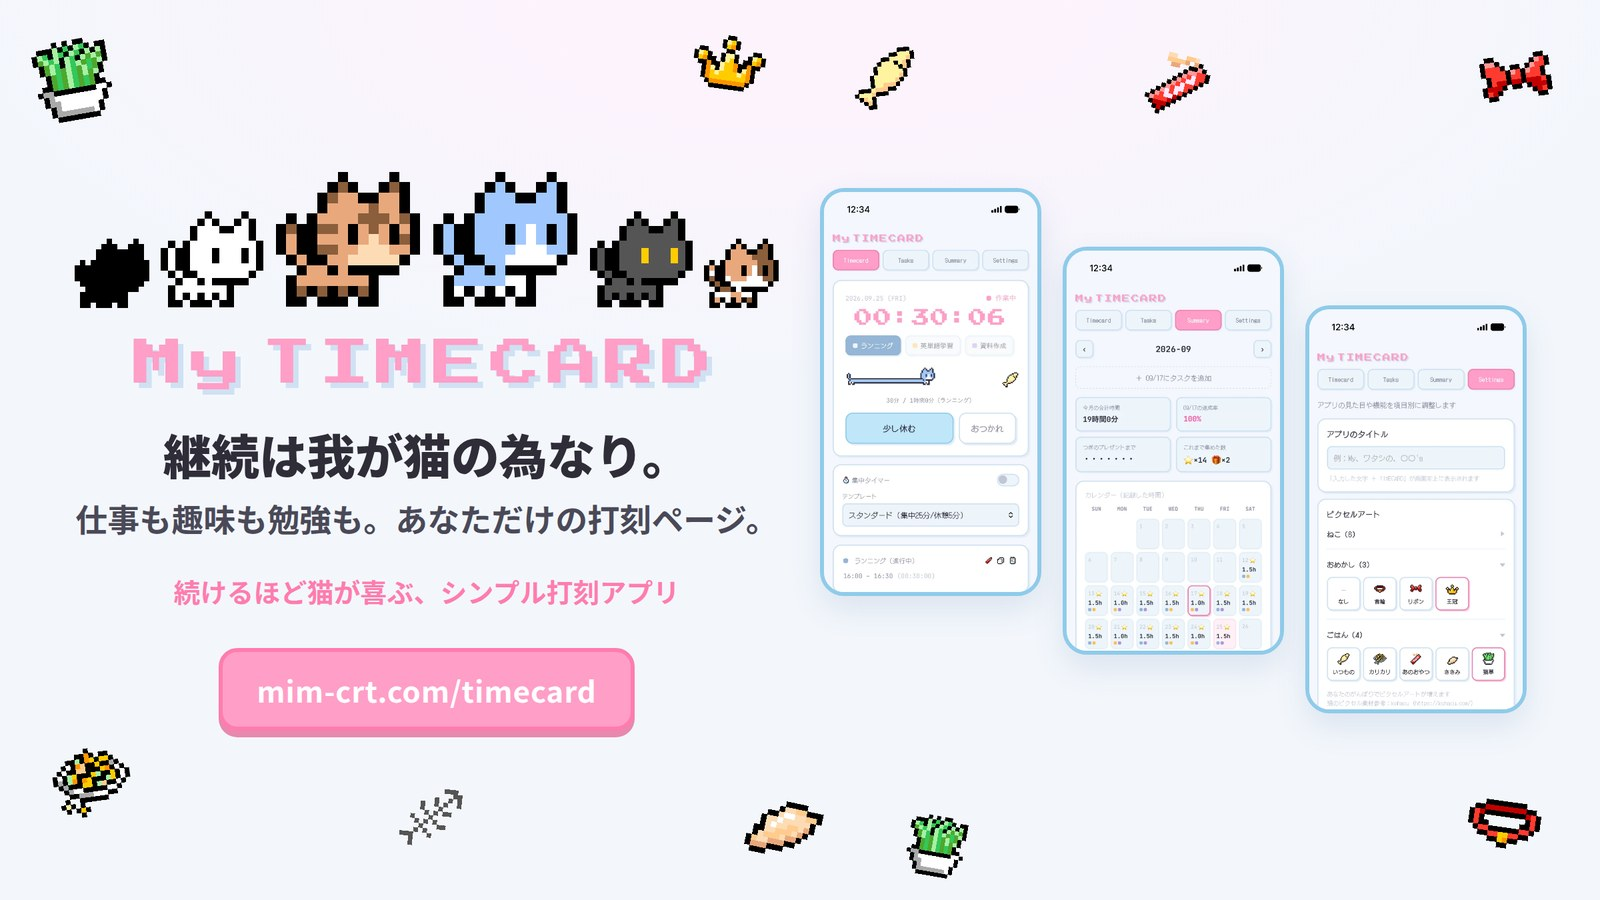
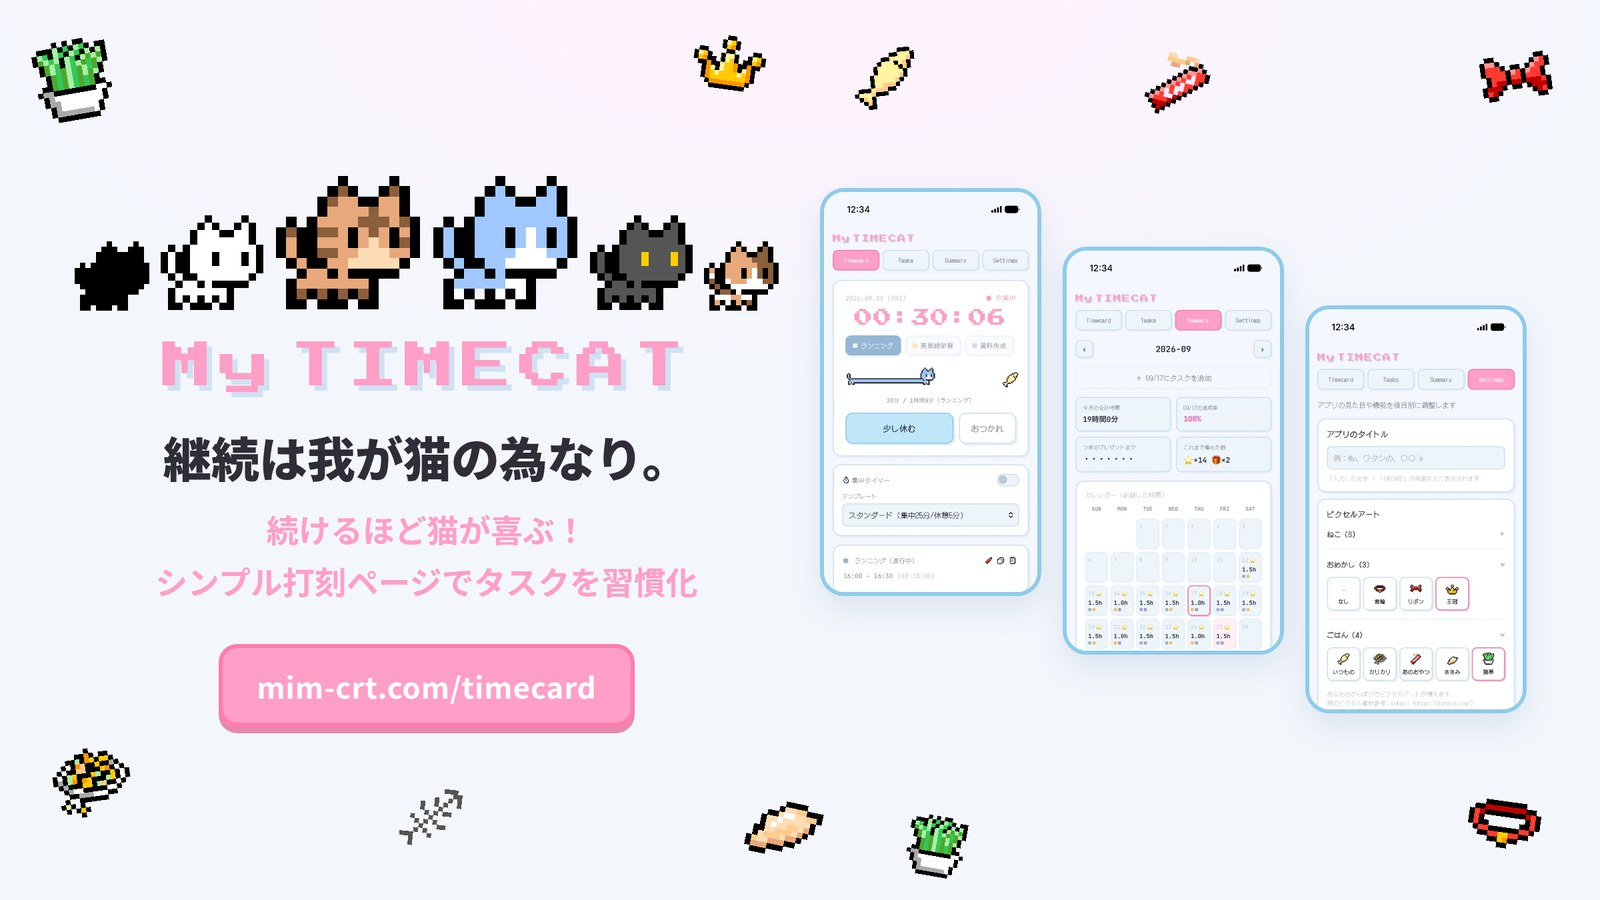
Diary: LP記事の表記をMy TIMECATに変更、告知画像を新ロゴ版に差し替え
Claude-Session: https://claude.ai/code/session_01VZhEBWrhsxb8yWvy551Fxq

Changed region(s): [[0.0312, 0.3733, 0.4688, 0.6844], [0.0625, 0.1867, 0.5, 0.3422], [0.125, 0.7156, 0.4062, 0.84]]

diff --git a/index.html b/index.html
@@ -1615,14 +1615,14 @@
           </summary>
           <div class="blog-body">
             <figure class="blog-media blog-media--wide">
-              <img src="diary/timecard-lp-wide.jpg" width="1600" height="900" loading="lazy" alt="My Timecard 告知画像。6匹のピクセルアートの猫と、Timecard・Summary・Settingsの3画面。キャッチコピー「継続は我が猫の為なり。」">
+              <img src="diary/timecard-lp-wide.jpg" width="1600" height="900" loading="lazy" alt="My TIMECAT 告知画像。6匹のピクセルアートの猫と、Timecard・Summary・Settingsの3画面。キャッチコピー「継続は我が猫の為なり。」">
             </figure>
-            <p>シリーズ第4回は、アプリの中身ではなくその外側の話です。MyTIMECATを紹介するページ（LP）を公開しました！</p>
+            <p>シリーズ第4回は、アプリの中身ではなくその外側の話です。My TIMECATを紹介するページ（LP）を公開しました！</p>
             <p>👉 <a href="https://mim-crt.com/timecard/">https://mim-crt.com/timecard/</a></p>
             <p>第1回〜第3回ではご褒美システム、ドット絵、外部サービスとの同期と、アプリの内側の話をしてきました。今回は「このアプリがどんなものか」を初めて見る人に伝えるためのページを作った、という報告です。</p>
 
             <h3>どんなアプリ？</h3>
-            <p>改めて紹介すると、MyTIMECATはブラウザで開くだけで使えるタスク記録アプリです。インストール不要で、PC・スマホ・タブレットのどれからでも記録できます。画像の3画面は左から Timecard・Summary・Settings です。</p>
+            <p>改めて紹介すると、My TIMECATはブラウザで開くだけで使えるタスク記録アプリです。インストール不要で、PC・スマホ・タブレットのどれからでも記録できます。画像の3画面は左から Timecard・Summary・Settings です。</p>
             <ul>
               <li><strong>Timecard</strong>：ワンタップで記録。自分の猫が一緒に歩いてくれます。集中タイマーつき</li>
               <li><strong>Tasks</strong>：タスクの作成・編集</li>
@@ -1639,9 +1639,6 @@
             <p>ログインしなくてもすぐに使えて、すべての機能が無料です。Googleアカウントかメールアドレスでログインすると、第3回で格闘した同期機能のおかげで、複数の端末で同じデータを使えるようになります。</p>
             <h3>まとめ</h3>
             <p>9月1日の「アプリ開発に手を出しました」から約1か月、自分用に作り始めたアプリが、ようやく人に紹介できる形になりました。「三日坊主になりがち」な方にこそ使ってもらえたらうれしいです。ご意見・ご要望もお気軽にどうぞ！</p>
-            <figure class="blog-media blog-media--tall">
-              <img src="diary/timecard-lp-tall.jpg" width="1080" height="1350" loading="lazy" alt="My Timecard 告知画像（縦長）。ピクセルアートの猫たちとアプリの3画面、URL mim-crt.com/timecard">
-            </figure>
             <p>▶ アプリをはじめる：<a href="https://timecard.mim-crt.com/">https://timecard.mim-crt.com/</a></p>
           </div>
         </details>
